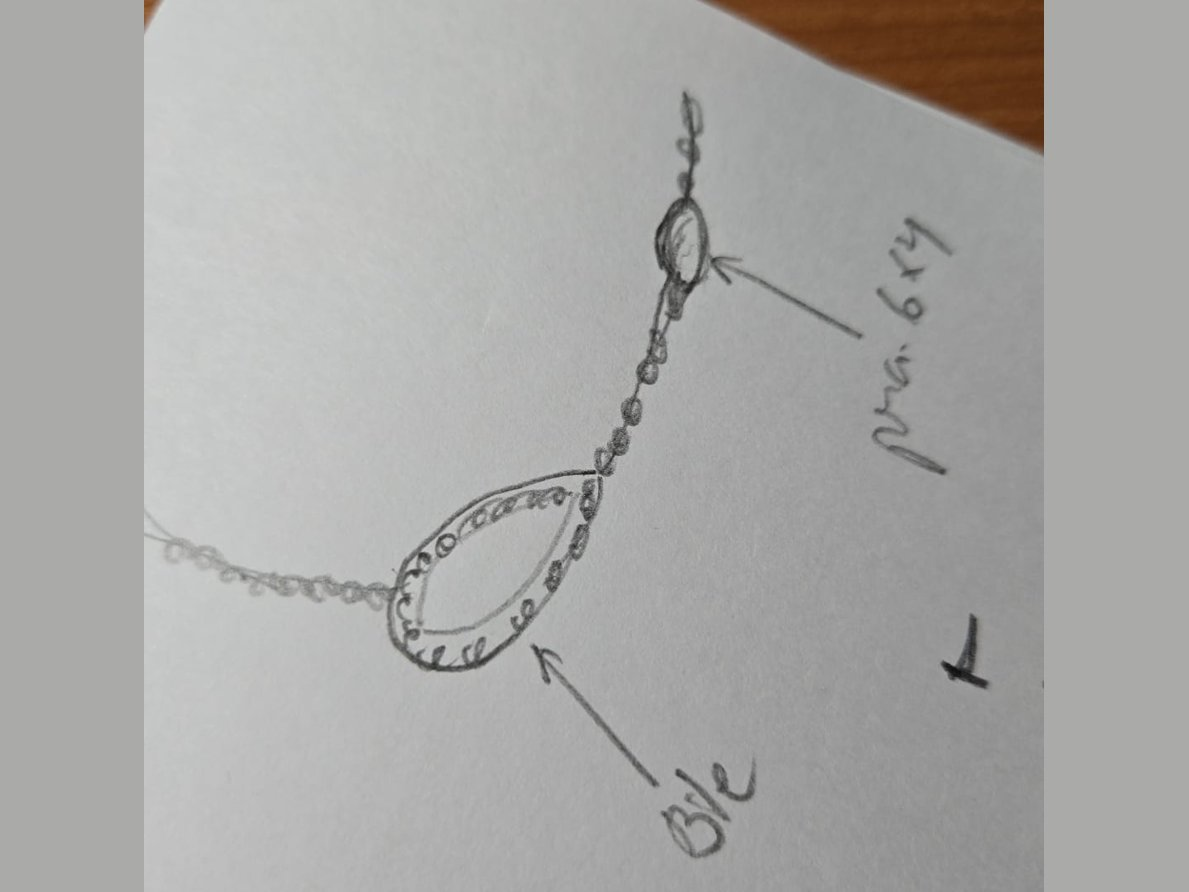
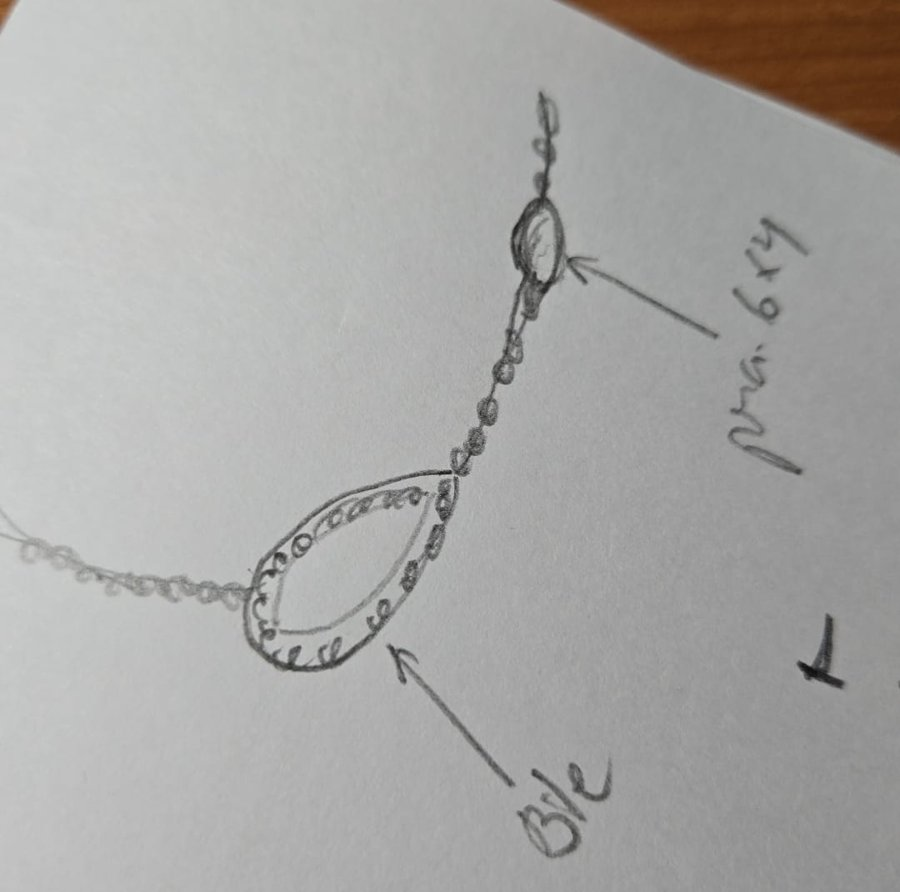
Atelier: restaura foto paso 02, amplía foto paso 04 y quita iconos sobre fotos
Claude-Session: https://claude.ai/code/session_01EbeJgK1TxeSrCwHP2j51TA

diff --git a/atelier.html b/atelier.html
@@ -268,7 +268,6 @@ footer{padding:3rem 5rem;background:var(--white);border-top:1px solid var(--bord
     <div class="step reveal">
       <div class="step-img" style="background:linear-gradient(160deg,#f7f2fc,#ede0f5)">
         <img src="images/atelier/tienda-interior.jpg" alt="Interior de la tienda Moreno Santos Joiers" onerror="this.style.display='none'">
-        <span class="step-img-placeholder">✏</span>
       </div>
       <div class="step-number">01</div>
       <h3 class="step-title">Primera <em>consulta</em></h3>
@@ -278,7 +277,6 @@ footer{padding:3rem 5rem;background:var(--white);border-top:1px solid var(--bord
     <div class="step reveal rd1">
       <div class="step-img" style="background:linear-gradient(160deg,#f0f4fd,#e8eef8)">
         <img src="images/atelier/boceto-colgante.jpg" alt="Boceto de diseño de colgante" onerror="this.style.display='none'">
-        <span class="step-img-placeholder">◈</span>
       </div>
       <div class="step-number">02</div>
       <h3 class="step-title">Propuesta de <em>diseño</em></h3>
@@ -288,7 +286,6 @@ footer{padding:3rem 5rem;background:var(--white);border-top:1px solid var(--bord
     <div class="step reveal rd2">
       <div class="step-img" style="background:linear-gradient(160deg,#fdf4f8,#f5e8ee)">
         <img src="images/atelier/render-anillo-colgante.jpg" alt="Render de anillo y colgante en oro y piedras" onerror="this.style.display='none'">
-        <span class="step-img-placeholder">⚒</span>
       </div>
       <div class="step-number">03</div>
       <h3 class="step-title"><em>Elaboración</em> artesanal</h3>
@@ -298,7 +295,6 @@ footer{padding:3rem 5rem;background:var(--white);border-top:1px solid var(--bord
     <div class="step reveal rd3">
       <div class="step-img" style="background:linear-gradient(160deg,#f8f4fd,#ede0f8)">
         <img src="images/atelier/collar-piedra-rosa.jpg" alt="Collar de oro con piedra rosa en forma de gota y pavé" onerror="this.style.display='none'">
-        <span class="step-img-placeholder">◇</span>
       </div>
       <div class="step-number">04</div>
       <h3 class="step-title">Entrega &amp; <em>celebración</em></h3>
